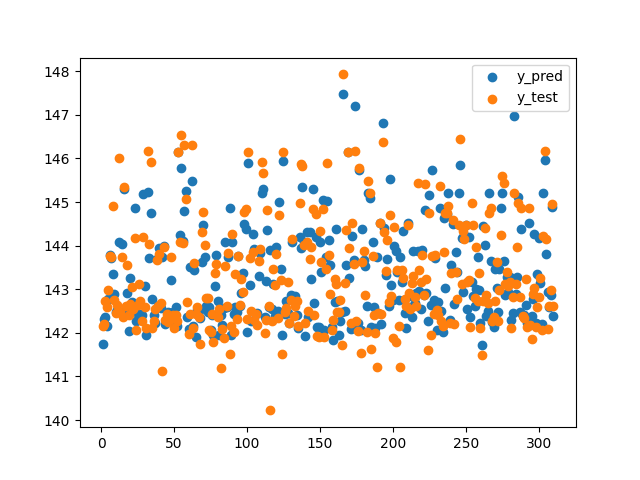
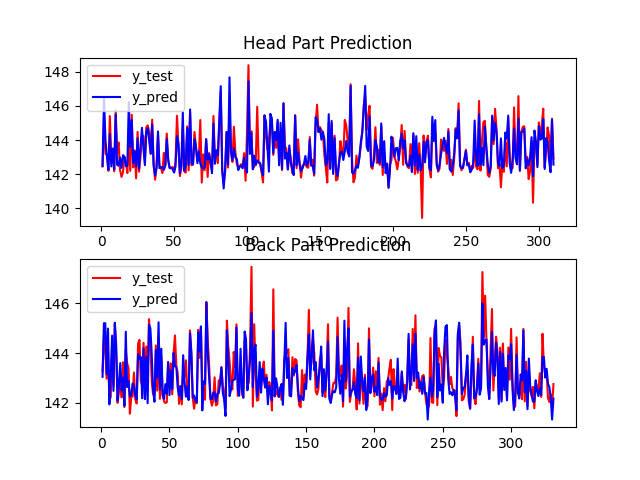
knn model with kfold

diff --git a/data_training.py b/data_training.py
@@ -5,8 +5,8 @@ import matplotlib.pyplot as plt
 from sklearn import model_selection
 from sklearn.preprocessing import MinMaxScaler
 from sklearn.feature_selection import SelectKBest,f_regression
-from sklearn.metrics import mean_squared_error
-from sklearn.metrics import r2_score
+from sklearn import metrics
+from sklearn.model_selection import cross_val_score
 
 import learning_model
 import data_path
@@ -26,40 +26,40 @@ if __name__ == '__main__':
     # learning_model.LearningModel.correlation_analysis(data_path.filepath_thick_processed_head, '_head')
     # learning_model.LearningModel.correlation_analysis(data_path.filepath_thick_processed_back, '_back')
 
-    # 数据训练
+    # 数据集
     head_datas = pd.read_csv(data_path.filepath_thick_processed_head, encoding='gbk', on_bad_lines='skip')
     back_datas = pd.read_csv(data_path.filepath_thick_processed_back, encoding='gbk', on_bad_lines='skip')
-    # 对所有自变量数据作标准化处理
-    transfer = MinMaxScaler(feature_range=(0, 1))
-    head_datas_scaler = pd.DataFrame(transfer.fit_transform(head_datas[['thickness_average','speed','gapDR','gapOP',
-                                              "MES_pressureDR", "MES_pressureOP"]]))
-    back_datas_scaler = pd.DataFrame(transfer.fit_transform(back_datas[['thickness_average','speed','gapDR','gapOP',
-                                              "MES_pressureDR", "MES_pressureOP"]]))
-    head_datas_scaler = np.append(head_datas_scaler,head_datas[['time_gap']],axis=1)
-    back_datas_scaler = np.append(back_datas_scaler,back_datas[['time_gap']],axis=1)
-    # 拆分训练集和测试集
-    X_train, X_test = model_selection.train_test_split(head_datas_scaler, 
-                                                        test_size = 0.25, random_state = 100)
-    y_train, y_test = model_selection.train_test_split(head_datas[['thickness_average_second']], 
-                                                        test_size = 0.25, random_state = 100)
-
-    # 设置待测试的不同k值
-    #训练
-    kNN_reg = neighbors.KNeighborsRegressor()
-    kNN_reg.fit(X_train, y_train)
-    #预测
-    y_pred = kNN_reg.predict(X_test)
-
-
+    # kNN模型训练
+    y_test_head, y_pred_head, k_best_head, kfold_score_head = learning_model.LearningModel.knn_training(head_datas)
+    y_test_back, y_pred_back, k_best_back, kfold_score_back = learning_model.LearningModel.knn_training(back_datas)
     # 评价
-    print("均方差：", np.sqrt(mean_squared_error(y_test, y_pred))) #计算均方差根判断效果
-    print("均方误差（MSE）：", r2_score(y_test,y_pred)) #计算均方误差（MSE）回归损失，越接近于1拟合效果越好
-
+    print("头部预测指标结果：") # 前1000米
+    print("k:", k_best_head)
+    print("R_2:", metrics.r2_score(y_test_head,y_pred_head))
+    print("MAE:", metrics.mean_absolute_error(y_test_head, y_pred_head))
+    print("交叉验证kfold MAE:", kfold_score_head)
+    print("\n")
+    print("尾部预测指标结果：")
+    print("k:", k_best_back)
+    print("R_2:", metrics.r2_score(y_test_back,y_pred_back))
+    print("MAE:", metrics.mean_absolute_error(y_test_back, y_pred_back))
+    print("交叉验证kfold MAE:", kfold_score_back)
     #绘图展示预测效果
-    y_pred.sort()
-    y_test.values.sort()
-    x = np.arange(1,len(y_pred)+1)
-    Pplot = plt.scatter(x,y_pred)
-    Tplot = plt.scatter(x,y_test)
-    plt.legend(handles=[Pplot,Tplot],labels=['y_pred','y_test'],linestyle='-')
+    plt.subplot(2, 1, 1)
+    plt.title("Head Part Prediction")
+    y_pred_head.sort()
+    y_test_head.values.sort()
+    x = np.arange(1,(len(y_pred_head)+1))
+    plt.plot(x, y_test_head, 'r', label='y_test')
+    plt.plot(x, y_pred_head, 'b', label='y_pred')
+    plt.legend()
+
+    plt.subplot(2, 1, 2)
+    plt.title("Back Part Prediction")
+    y_pred_back.sort()
+    y_test_back.values.sort()
+    x = np.arange(1,(len(y_pred_back)+1))
+    plt.plot(x, y_test_back, 'r', label='y_test')
+    plt.plot(x, y_pred_back, 'b', label='y_pred')
+    plt.legend()
     plt.show()

diff --git a/learning_model.py b/learning_model.py
@@ -1,6 +1,11 @@
 import pandas as pd
+import numpy as np
 import seaborn as sns
 import matplotlib.pyplot as plt
+from sklearn.preprocessing import MinMaxScaler
+from sklearn import model_selection
+from sklearn import neighbors
+from sklearn import metrics
 
 import data_path
 class LearningModel:
@@ -27,3 +32,57 @@ class LearningModel:
                     cmap='coolwarm_r',  # 设置热力图颜色
                     )
         plt.savefig("./corralation_images/rebound_prediction_correlation" +name +".png",dpi=1000) # 保存图片
+    # 交叉验证
+    def kfold_val_score(model, x_train, y_train):
+        kfold_head = model_selection.cross_val_score(model , x_train , y_train , 
+                                    cv=5, scoring = "neg_mean_absolute_error")
+        return kfold_head
+
+    def knn_training(datas):
+        # 对所有自变量数据作标准化处理
+        transfer = MinMaxScaler(feature_range=(0, 1))
+        datas_scaler = pd.DataFrame(transfer.fit_transform(datas[['thickness_average','speed','gapDR','gapOP',
+                                                "MES_pressureDR", "MES_pressureOP"]]))
+        X = np.append(datas_scaler,datas[['time_gap']],axis=1)
+        Y = datas[['thickness_average_second']]
+        # 拆分训练集和测试集
+        X_train, X_test = model_selection.train_test_split(X, test_size = 0.25, random_state = 2000)
+        y_train, y_test = model_selection.train_test_split(Y, test_size = 0.25, random_state = 2000)
+        R2s = []
+        MAEs = []
+        for k in range(1, 31):
+            #训练
+            kNN_reg = neighbors.KNeighborsRegressor(k)
+            kNN_reg.fit(X_train, y_train)
+            #预测
+            y_pred = kNN_reg.predict(X_test)
+            # 评价指标
+            R2 = metrics.r2_score(y_test,y_pred)
+            MAE = metrics.mean_absolute_error(y_test, y_pred)
+            R2s.append(R2)
+            MAEs.append(MAE)
+        # 找MAE最小
+        # min_elem = MAEs[0]
+        # min_index = 0
+        # for i in range(1, len(MAEs)):
+        #     if MAEs[i] < min_elem:
+        #         min_elem = MAEs[i]
+        #         min_index = i
+        #             #训练
+        # k_best = min_index + 1
+        # 找R2最大
+        max_elem = R2s[0]
+        max_index = 0
+        for i in range(1, len(R2s)):
+            if R2s[i] > max_elem:
+                max_elem = R2s[i]
+                max_index = i
+                    #训练
+        k_best = max_index + 1
+        kNN_reg_best = neighbors.KNeighborsRegressor(k_best)
+        kNN_reg_best.fit(X_train, y_train)
+        #预测
+        y_pred = kNN_reg_best.predict(X_test)
+        #交叉验证
+        kfold_score = -LearningModel.kfold_val_score(kNN_reg_best, X_train, y_train)
+        return y_test, y_pred, k_best, kfold_score
